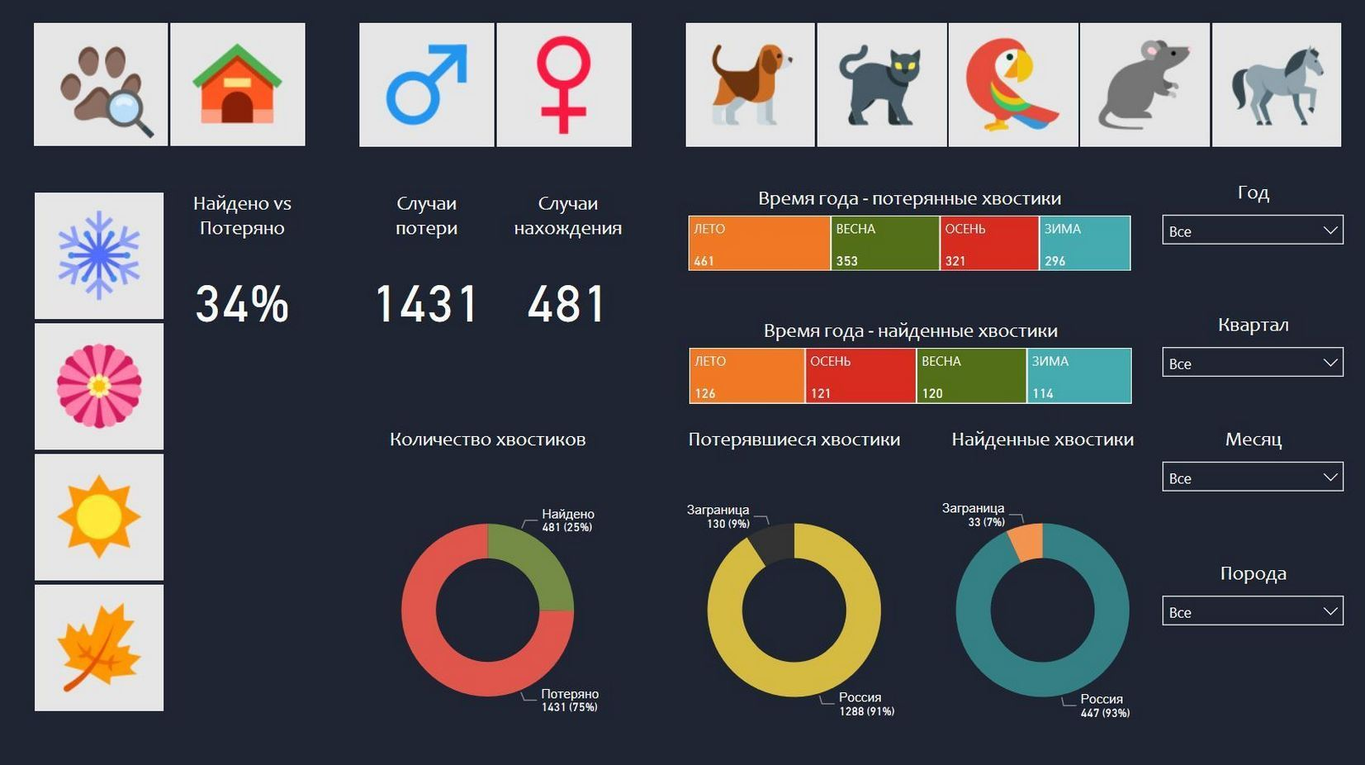
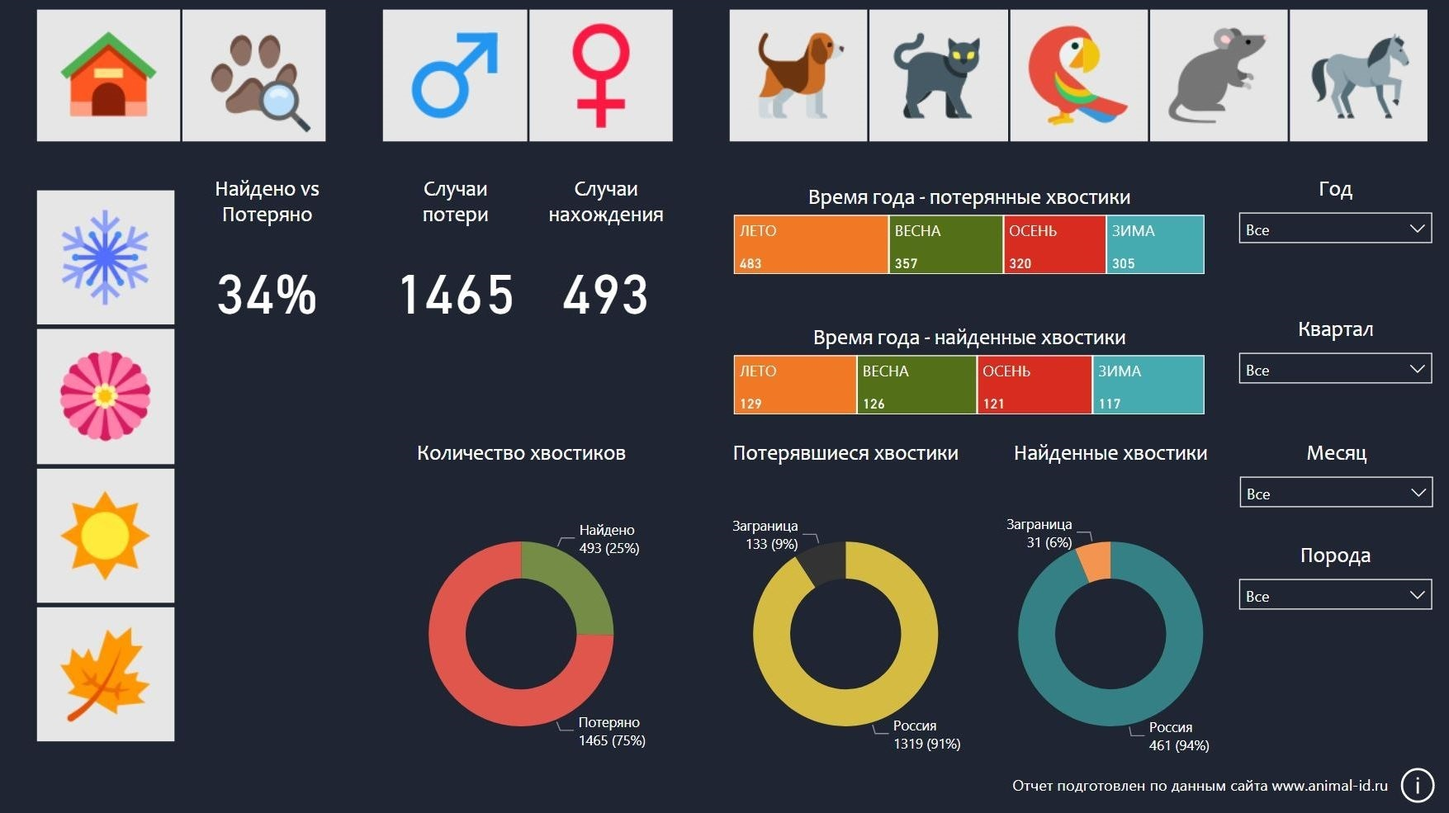
09.09.2020_1

diff --git a/docs/ru/blog/dev_000/index.html b/docs/ru/blog/dev_000/index.html
@@ -149,9 +149,10 @@
                 <blockquote>
 <p><em>Рвав-рвав, с вами социально-ответственный собака Смайл!</em></p>
 
-<p><em>В связи с прошедшим Днем рождения, а также в рамках постоянной работы над собой, мы рады представить вам свою очередную разработку &ndash; отчет c кодовым названием &ldquo;Мониторинг питомцев&rdquo;. Отчет построен по данным российской базы чипированных животных, данные, используемые в отчете &ndash; общего характера.</em>
-<em>Собака Смайл выражает благодарность коллеге хозяина &ndash; <a href="https://dmitriyvlasov.ru">Дмитрию Власову</a> за помощь в создании процедуры парсинга исходных данных.</em>
-<em>Описание разработки, за исключением процедуры парсинга, &ndash; представлено ниже.</em></p>
+<p><em>В связи с прошедшим Днем рождения, а также в рамках постоянной работы над собой, мы рады представить вам свою очередную разработку &ndash; отчет c кодовым названием &ldquo;Мониторинг питомцев&rdquo;.</em>
+<em>Отчет построен по данным российской базы чипированных животных, а данные, представленные в отчете &ndash; общего характера.</em>
+<em>Собака Смайл выражает благодарность коллеге хозяина <a href="https://dmitriyvlasov.ru">Дмитрию Власову</a> за помощь в создании процедуры парсинга исходных данных.</em>
+<em>Описание разработки, за исключением процедуры парсинга, представлено ниже.</em></p>
 </blockquote>
 
 <p><img src="https://kkadikin.ru/images/blog/dev_000_screen.jpg" alt="dev_000_screen" /></p>
@@ -160,7 +161,7 @@
 
 <p><strong><li></strong> Источником данных для отчета является &ldquo;Web&rdquo; (&ldquo;Интернет&rdquo;), то есть web-станицы, соединенные в определенной последовательности, и представленные при помощи функций на уровне Power Query в табличном виде.</p>
 
-<p><strong><li></strong> Географические данные, используемые в отчете, представляют собой &ldquo;очищенные&rdquo; позиции, то есть эти данные отличаются от оригинала. Очистка данных производилась большей частью вручную (на уровне DAX), поскольку у человеков просто неисчерпаемая фантазия.</p>
+<p><strong><li></strong> Географические данные, используемые в отчете, представляют собой &ldquo;очищенные&rdquo; позиции, то есть эти данные отличаются от оригинала. Очистка данных производилась большей частью вручную, на уровне DAX, поскольку у человеков просто неисчерпаемая фантазия.</p>
 
 <blockquote>
 <p><em>Рвав-рвав, отступление из серии &ldquo;Накипело&rdquo;. Собака Смайл узнал очень много в процессе обработки данных, оказывается, столица нашего государства может писаться следующим образом:</em></p>
@@ -170,21 +171,25 @@
 
 <p>&ndash; <em>&ldquo;ГРАД МОСКОВСКИЙ&rdquo; &ndash; куда уж нам без пафоса, так и хочется сказать: &ldquo;Человек, у тебя, вообще-то, друг потерялся&hellip;&rdquo;;</em></p>
 
-<p>&ndash; <em>&ldquo;ТВЕРСКАЯ УЛИЦА&rdquo; &ndash; таки-да, товарищи, это тоже &ldquo;МОСКВА&rdquo; (Смайл понял из контекста), но мы же с вами и так все в курсе, где это&hellip; И ничего, что такая же, как минимум, в Петербурге есть (рядом с Таврическим садом, если что).</em></p>
+<p>&ndash; <em>&ldquo;ТВЕРСКАЯ УЛИЦА&rdquo; &ndash; таки-да, товарищи, это тоже &ldquo;МОСКВА&rdquo; (Смайл понял из контекста), но мы же с вами и так все в курсе, где это&hellip; И ничего, что такая же улица, как минимум, в Петербурге есть (рядом с Таврическим садом, если что).</em></p>
 
 <p><strong><li></strong> Все показатели расчитаны при помощи мер.</p>
 
-<p><strong>Разработка содержит следующие данные:</strong></p>
+<p><strong>Разработка содержит 2 листа:</strong></p>
 
-<p><strong><li></strong> Общую информацию о потерянных и найденных питомцах.</p>
+<p><strong><li></strong> Лист &ldquo;Общие данные&rdquo; &ndash; общая информация о потерянных и найденных питомцах по России и странам мира.</p>
 
-<p><strong><li></strong> Географию произошедшего &ndash; по России и за границей.</p>
+<p><strong><li></strong> Лист &ldquo;ГЕО - Мир&rdquo; &ndash; детальная информация по странам мира, за исключением России, с выделением ТОП-5 в рейтинге.</p>
 
-<p><strong><li></strong> Аналитику по частоте случаев в разрезе популярных пород, а также индивидуальные идентификаторы питомцев.</p>
+<p><strong><li></strong> Лист &ldquo;ГЕО - регионы России&rdquo; &ndash; детальная информация по регионам России, с выделением ТОП-5 в рейтинге.</p>
+
+<p><strong><li></strong> Лист &ldquo;Породы&rdquo; &ndash; детальная информация по конкретным породам питомцев, с выделением ТОП-5 в рейтинге.</p>
+
+<p><strong><li></strong> Лист &ldquo;Подробности&rdquo; &ndash; персонифицированная информация о конкретном питомце, с указанием номера чипа / клейма для облегчения его идентификации.</p>
 
 <p><strong>Используемые элементы:</strong></p>
 
-<p><strong><li></strong> Визуальные фильтры (стандартный функционал), а также боковая панель фильтрации;</p>
+<p><strong><li></strong> Визуальные фильтры, реализованные при помощи элемента визуализации &ldquo;Slicer&rdquo; (&ldquo;Срез&rdquo;), а также боковой панели фильтрации.</p>
 
 <p><strong><li></strong> В качестве элементов визуализации используются: &ldquo;Card&rdquo; (&ldquo;Карточка&rdquo;), &ldquo;Treemap&rdquo; (&ldquo;Диаграмма дерева&rdquo;), &ldquo;Donut chart&rdquo; (&ldquo;Кольцевой график&rdquo;), &ldquo;Map&rdquo; (&ldquo;Карта&rdquo;), &ldquo;Multi-row card&rdquo; (&ldquo;Многострочная карточка&rdquo;), &ldquo;Ribbon chart&rdquo; (&ldquo;Диаграмма ленты&rdquo;).</p>
 
@@ -192,31 +197,37 @@
 
 <p><strong>Процесс разработки:</strong></p>
 
-<p><strong><li></strong> Получение данных из веб-источника, и их обработка &ndash; цитата <a href="https://dmitriyvlasov.ru">Дмитрия Власова:</a></p>
+<p><strong><li></strong> Получение данных из веб-источника, и их обработка.</p>
 
-<p><em>&rdquo;&hellip;Подготовка данных для отчета осуществляется с помощью Power Query. На входе получаем URL к узловой странице с потерянными или найденными животными. Узловые страницы ведут на по страничное представление списков потерянных или найденных животных в формате html. На каждой странице содержится одна или несколько таблиц с карточкой животного. С помощью преобразования Power Query и написанного ряда функцию Power Query данные загружаются в Модель. Ключеые функции: Web.Contents &ndash; для загрузки данных, List.Accumulate &ndash; для прохождения и обработки в &ldquo;цикле&rdquo; каждой страницы и поиска последней заполненной страницы.&rdquo;</em></p>
+<p>Цитата <a href="https://dmitriyvlasov.ru">разработчика</a></p>
 
-<p>Исходные данные собираются в 2-х таблицах &ndash; &ldquo;LostPets&rdquo; и &ldquo;FoundPets&rdquo;.</p>
+<p>*&ldquo;&hellip;Подготовка данных для отчета осуществляется с помощью Power Query. На входе получаем URL к узловой странице с потерянными или найденными животными. Узловые страницы ведут на по страничное представление списков потерянных или найденных животных в формате &ldquo;html&rdquo;. На каждой странице содержится одна или несколько таблиц с карточкой животного. С помощью преобразования Power Query и написанного ряда функций Power Query данные загружаются в модель.</p>
 
-<p><strong><li></strong> Создана таблица &ldquo;RussiaMap&rdquo; &ndash; справочник федеральных округов, субъектов и административных центров России.</p>
+<p><em>Ключеые функции:</em></p>
 
-<p><strong><li></strong> Создана таблица &ldquo;Season&rdquo; &ndash; справочник по временам года, также имеющий ссылку URL на соответствующую иконку.</p>
+<p>&ndash; Web.Contents &ndash; для загрузки данных, List.Accumulate &ndash; для прохождения и обработки в &ldquo;цикле&rdquo; каждой страницы и поиска последней заполненной страницы.&rdquo;*</p>
 
-<p><strong><li></strong> Создана таблица &ldquo;Condition&rdquo; &ndash; справочник по состоянию питомца, также имеющий ссылку URL на соответствующую иконку.</p>
+<p>Исходные данные собираются в 2-х таблицах &ndash; &ldquo;Потерянные питомцы&rdquo; и &ldquo;Найденные питомцы&rdquo;.</p>
 
-<p><strong><li></strong> Создана таблица &ldquo;Measure&rdquo; &ndash; техническая таблица, созданная для удобства, складываем туда меры (по старинке), хоть теперь можно их группировать при  помощи каталогов.</p>
+<p><strong><li></strong> Создана таблица &ldquo;Субъекты России&rdquo; &ndash; справочник федеральных округов, субъектов и административных центров России.</p>
 
-<p><strong><li></strong> Создана таблица &ldquo;Kind&rdquo; &ndash; справочник по градации питомцев, также имеющий ссылку URL на соответствующую иконку.</p>
+<p><strong><li></strong> Создана таблица &ldquo;Время года&rdquo; &ndash; справочник по временам года, имеющий ссылку URL на соответствующую иконку.</p>
 
-<p><strong><li></strong> Создана таблица &ldquo;Gender&rdquo; &ndash; справочник, содержащий пол питомца, также имеющий ссылку URL на соответствующую иконку.</p>
+<p><strong><li></strong> Создана таблица &ldquo;Статус питомца&rdquo; &ndash; справочник по состоянию питомца, имеющий ссылку URL на соответствующую иконку.</p>
+
+<p><strong><li></strong> Создана таблица &ldquo;Меры&rdquo; &ndash; техническая таблица, созданная для удобства, складываем туда меры (по старинке), хоть теперь можно их группировать при помощи каталогов.</p>
+
+<p><strong><li></strong> Создана таблица &ldquo;Вид питомца&rdquo; &ndash; справочник по градации питомцев, имеющий ссылку URL на соответствующую иконку.</p>
+
+<p><strong><li></strong> Создана таблица &ldquo;Пол питомца&rdquo; &ndash; справочник, содержащий пол питомца, также имеющий ссылку URL на соответствующую иконку.</p>
 
 <p>На этом работы с Power Query завершены.</p>
 
-<p><strong><li></strong> Создана таблица &ldquo;Calendar&rdquo; &ndash; базовая таблица, определяющая набор дат для расчета.</p>
+<p><strong><li></strong> Создана таблица &ldquo;Календарь&rdquo; &ndash; базовая таблица, определяющая набор дат для расчета, включая сезоны.</p>
 
-<p><strong><li></strong> Создана таблица &ldquo;ClearLacation&rdquo; &ndash; справочник, содержащий очищенные географические данные, о которых упоминалось выше.</p>
+<p><strong><li></strong> Создана таблица &ldquo;Объявления&rdquo; &ndash; таблица, содержащая консолидированные данные по питомцам, с текущей меткой их статуса.</p>
 
-<p><strong><li></strong> Создана таблица &ldquo;PivotPets&rdquo; &ndash; таблица, содержащая консолидированнные данные по питомцам, с текущей меткой их состояния.</p>
+<p><strong><li></strong> Создана таблица &ldquo;Геопозиция&rdquo; &ndash; справочник, содержащий очищенные географические данные, о которых упоминалось выше.</p>
 
 <p><strong><li></strong> Следующим этапом является простановка связей в получившейся модели данных. Схема связей представлена ниже:</p>
 
@@ -228,7 +239,7 @@
 
 <p><strong>Особенности разработки:</strong></p>
 
-<p><strong><li></strong> В связи с разнообразием в вариациях обозначения географических данных, периодически необходимо дополнять справочник вручную, собака Смайл будет этим по возможности заниматься, как и собственно, обновление отчета.</p>
+<p><strong><li></strong> В связи с разнообразием в вариациях обозначения географических данных, периодически необходимо дополнять справочник вручную, собака Смайл будет этим по возможности заниматься, как и, собственно, обновлением отчета.</p>
 
 <p><strong><li></strong> Для размещения иконок непосредственно в элементе &ldquo;Slicer&rdquo; (&ldquo;Срез&rdquo;), изображения должны быть доступны по URL. В данном случае, они размещены в структуре сайта.</p>
 
@@ -237,6 +248,14 @@
 
 <p><em>Ваш Смайл</em></p>
 </blockquote>
+
+<p><strong>Разработка была обновлена 9 сентября 2020 года:</strong></p>
+
+<p><strong><li></strong> Обновлена структура отчета.</p>
+
+<p><strong><li></strong> Обновлен дизайн отчета.</p>
+
+<p><strong><li></strong> Произведена актуализация данных отчета.</p>
 
 <p><strong>ДЛЯ ЛЮБИТЕЛЕЙ ПОНАЖИМАТЬ НА КНОПОЧКИ</strong></p>
 

diff --git a/docs/ru/blog/page/2/index.html b/docs/ru/blog/page/2/index.html
@@ -177,7 +177,7 @@
                     </div>
                     <div class="post-content">
                         <p>Рвав-рвав, с вами социально-ответственный собака Смайл!
-В связи с прошедшим Днем рождения, а также в рамках постоянной работы над собой, мы рады представить вам свою очередную разработку &ndash; отчет c кодовым названием &ldquo;Мониторинг питомцев&rdquo;. Отчет построен по данным российской базы чипированных животных, данные, используемые в отчете &ndash; общего характера. Собака Смайл выражает благодарность коллеге хозяина &ndash; Дмитрию Власову за помощь в создании процедуры парсинга исходных данных. Описание разработки, за исключением процедуры парсинга, &ndash; представлено ниже.</p>
+В связи с прошедшим Днем рождения, а также в рамках постоянной работы над собой, мы рады представить вам свою очередную разработку &ndash; отчет c кодовым названием &ldquo;Мониторинг питомцев&rdquo;. Отчет построен по данным российской базы чипированных животных, а данные, представленные в отчете &ndash; общего характера. Собака Смайл выражает благодарность коллеге хозяина Дмитрию Власову за помощь в создании процедуры парсинга исходных данных. Описание разработки, за исключением процедуры парсинга, представлено ниже.</p>
                     </div>
                     <a class="btn btn-main" href="https://kkadikin.ru/ru/blog/dev_000/">Read more</a>
                 </div>

diff --git a/content/blog/Dev_000.ru.md b/content/blog/Dev_000.ru.md
@@ -7,9 +7,10 @@ author: Smile
 
 > *Рвав-рвав, с вами социально-ответственный собака Смайл!*
 >
-> *В связи с прошедшим Днем рождения, а также в рамках постоянной работы над собой, мы рады представить вам свою очередную разработку -- отчет c кодовым названием "Мониторинг питомцев". Отчет построен по данным российской базы чипированных животных, данные, используемые в отчете -- общего характера.*
-> *Собака Смайл выражает благодарность коллеге хозяина -- [Дмитрию Власову](https://dmitriyvlasov.ru) за помощь в создании процедуры парсинга исходных данных.*
-> *Описание разработки, за исключением процедуры парсинга, -- представлено ниже.* 
+> *В связи с прошедшим Днем рождения, а также в рамках постоянной работы над собой, мы рады представить вам свою очередную разработку -- отчет c кодовым названием "Мониторинг питомцев".*
+> *Отчет построен по данным российской базы чипированных животных, а данные, представленные в отчете -- общего характера.*
+> *Собака Смайл выражает благодарность коллеге хозяина [Дмитрию Власову](https://dmitriyvlasov.ru) за помощь в создании процедуры парсинга исходных данных.*
+> *Описание разработки, за исключением процедуры парсинга, представлено ниже.* 
 
 ![dev_000_screen](https://kkadikin.ru/images/blog/dev_000_screen.jpg)
 
@@ -18,7 +19,7 @@ author: Smile
 
 **<li>** Источником данных для отчета является "Web" ("Интернет"), то есть web-станицы, соединенные в определенной последовательности, и представленные при помощи функций на уровне Power Query в табличном виде.
 
-**<li>** Географические данные, используемые в отчете, представляют собой "очищенные" позиции, то есть эти данные отличаются от оригинала. Очистка данных производилась большей частью вручную (на уровне DAX), поскольку у человеков просто неисчерпаемая фантазия.
+**<li>** Географические данные, используемые в отчете, представляют собой "очищенные" позиции, то есть эти данные отличаются от оригинала. Очистка данных производилась большей частью вручную, на уровне DAX, поскольку у человеков просто неисчерпаемая фантазия.
 
 > *Рвав-рвав, отступление из серии "Накипело". Собака Смайл узнал очень много в процессе обработки данных, оказывается, столица нашего государства может писаться следующим образом:*
 
@@ -26,23 +27,27 @@ author: Smile
 
 -- *"ГРАД МОСКОВСКИЙ" -- куда уж нам без пафоса, так и хочется сказать: "Человек, у тебя, вообще-то, друг потерялся...";*
 
--- *"ТВЕРСКАЯ УЛИЦА" -- таки-да, товарищи, это тоже "МОСКВА" (Смайл понял из контекста), но мы же с вами и так все в курсе, где это... И ничего, что такая же, как минимум, в Петербурге есть (рядом с Таврическим садом, если что).*
+-- *"ТВЕРСКАЯ УЛИЦА" -- таки-да, товарищи, это тоже "МОСКВА" (Смайл понял из контекста), но мы же с вами и так все в курсе, где это... И ничего, что такая же улица, как минимум, в Петербурге есть (рядом с Таврическим садом, если что).*
 
 **<li>** Все показатели расчитаны при помощи мер. 
 
 
-**Разработка содержит следующие данные:**
+**Разработка содержит 2 листа:**
 
-**<li>** Общую информацию о потерянных и найденных питомцах.
+**<li>** Лист "Общие данные" -- общая информация о потерянных и найденных питомцах по России и странам мира.
 
-**<li>** Географию произошедшего -- по России и за границей.
+**<li>** Лист "ГЕО - Мир" -- детальная информация по странам мира, за исключением России, с выделением ТОП-5 в рейтинге.
 
-**<li>** Аналитику по частоте случаев в разрезе популярных пород, а также индивидуальные идентификаторы питомцев.
+**<li>** Лист "ГЕО - регионы России" -- детальная информация по регионам России, с выделением ТОП-5 в рейтинге.
+
+**<li>** Лист "Породы" -- детальная информация по конкретным породам питомцев, с выделением ТОП-5 в рейтинге.
+
+**<li>** Лист "Подробности" -- персонифицированная информация о конкретном питомце, с указанием номера чипа / клейма для облегчения его идентификации.
 
 
 **Используемые элементы:**
 
-**<li>** Визуальные фильтры (стандартный функционал), а также боковая панель фильтрации;
+**<li>** Визуальные фильтры, реализованные при помощи элемента визуализации "Slicer" ("Срез"), а также боковой панели фильтрации.
 
 **<li>** В качестве элементов визуализации используются: "Card" ("Карточка"), "Treemap" ("Диаграмма дерева"), "Donut chart" ("Кольцевой график"), "Map" ("Карта"), "Multi-row card" ("Многострочная карточка"), "Ribbon chart" ("Диаграмма ленты").
 
@@ -51,31 +56,37 @@ author: Smile
 
 **Процесс разработки:**
 
-**<li>** Получение данных из веб-источника, и их обработка -- цитата [Дмитрия Власова:](https://dmitriyvlasov.ru)
+**<li>** Получение данных из веб-источника, и их обработка.
 
-*"...Подготовка данных для отчета осуществляется с помощью Power Query. На входе получаем URL к узловой странице с потерянными или найденными животными. Узловые страницы ведут на по страничное представление списков потерянных или найденных животных в формате html. На каждой странице содержится одна или несколько таблиц с карточкой животного. С помощью преобразования Power Query и написанного ряда функцию Power Query данные загружаются в Модель. Ключеые функции: Web.Contents -- для загрузки данных, List.Accumulate -- для прохождения и обработки в "цикле" каждой страницы и поиска последней заполненной страницы."*
+Цитата [разработчика](https://dmitriyvlasov.ru)
 
-Исходные данные собираются в 2-х таблицах -- "LostPets" и "FoundPets".
+*"...Подготовка данных для отчета осуществляется с помощью Power Query. На входе получаем URL к узловой странице с потерянными или найденными животными. Узловые страницы ведут на по страничное представление списков потерянных или найденных животных в формате "html". На каждой странице содержится одна или несколько таблиц с карточкой животного. С помощью преобразования Power Query и написанного ряда функций Power Query данные загружаются в модель. 
 
-**<li>** Создана таблица "RussiaMap" -- справочник федеральных округов, субъектов и административных центров России.
+*Ключеые функции:*
 
-**<li>** Создана таблица "Season" -- справочник по временам года, также имеющий ссылку URL на соответствующую иконку.
+-- Web.Contents -- для загрузки данных, List.Accumulate -- для прохождения и обработки в "цикле" каждой страницы и поиска последней заполненной страницы."*
 
-**<li>** Создана таблица "Condition" -- справочник по состоянию питомца, также имеющий ссылку URL на соответствующую иконку.
+Исходные данные собираются в 2-х таблицах -- "Потерянные питомцы" и "Найденные питомцы".
 
-**<li>** Создана таблица "Measure" -- техническая таблица, созданная для удобства, складываем туда меры (по старинке), хоть теперь можно их группировать при  помощи каталогов.
+**<li>** Создана таблица "Субъекты России" -- справочник федеральных округов, субъектов и административных центров России.
 
-**<li>** Создана таблица "Kind" -- справочник по градации питомцев, также имеющий ссылку URL на соответствующую иконку.
+**<li>** Создана таблица "Время года" -- справочник по временам года, имеющий ссылку URL на соответствующую иконку.
 
-**<li>** Создана таблица "Gender" -- справочник, содержащий пол питомца, также имеющий ссылку URL на соответствующую иконку.
+**<li>** Создана таблица "Статус питомца" -- справочник по состоянию питомца, имеющий ссылку URL на соответствующую иконку.
+
+**<li>** Создана таблица "Меры" -- техническая таблица, созданная для удобства, складываем туда меры (по старинке), хоть теперь можно их группировать при помощи каталогов.
+
+**<li>** Создана таблица "Вид питомца" -- справочник по градации питомцев, имеющий ссылку URL на соответствующую иконку.
+
+**<li>** Создана таблица "Пол питомца" -- справочник, содержащий пол питомца, также имеющий ссылку URL на соответствующую иконку.
 
 На этом работы с Power Query завершены. 
 
-**<li>** Создана таблица "Calendar" -- базовая таблица, определяющая набор дат для расчета.
+**<li>** Создана таблица "Календарь" -- базовая таблица, определяющая набор дат для расчета, включая сезоны.
 
-**<li>** Создана таблица "ClearLacation" -- справочник, содержащий очищенные географические данные, о которых упоминалось выше.
+**<li>** Создана таблица "Объявления" -- таблица, содержащая консолидированные данные по питомцам, с текущей меткой их статуса.
 
-**<li>** Создана таблица "PivotPets" -- таблица, содержащая консолидированнные данные по питомцам, с текущей меткой их состояния.
+**<li>** Создана таблица "Геопозиция" -- справочник, содержащий очищенные географические данные, о которых упоминалось выше.
 
 **<li>** Следующим этапом является простановка связей в получившейся модели данных. Схема связей представлена ниже:
 
@@ -88,13 +99,22 @@ author: Smile
 
 **Особенности разработки:**
 
-**<li>** В связи с разнообразием в вариациях обозначения географических данных, периодически необходимо дополнять справочник вручную, собака Смайл будет этим по возможности заниматься, как и собственно, обновление отчета.
+**<li>** В связи с разнообразием в вариациях обозначения географических данных, периодически необходимо дополнять справочник вручную, собака Смайл будет этим по возможности заниматься, как и, собственно, обновлением отчета.
 
 **<li>** Для размещения иконок непосредственно в элементе "Slicer" ("Срез"), изображения должны быть доступны по URL. В данном случае, они размещены в структуре сайта. 
 
 > *С первым снегом всех!*
 >
 > *Ваш Смайл*
+
+
+**Разработка была обновлена 9 сентября 2020 года:**
+
+**<li>** Обновлена структура отчета.
+
+**<li>** Обновлен дизайн отчета.
+
+**<li>** Произведена актуализация данных отчета.
 
 **ДЛЯ ЛЮБИТЕЛЕЙ ПОНАЖИМАТЬ НА КНОПОЧКИ**
 

diff --git a/content/blog/Dev_001.ru.md b/content/blog/Dev_001.ru.md
@@ -13,6 +13,7 @@ author: Smile
 
 ![dev_001_screen](https://kkadikin.ru/images/blog/dev_001_screen.jpg)
 
+
 **Календарь реализован при помощи DAX и Power Query, он содержит следующие расчеты:**
 
 **<li>** Общее количество календарных дней.
@@ -31,6 +32,7 @@ author: Smile
 **<li>** Лист "Отчет" –- собственно, сам отчет, содержащий сводные показатели производственного календаря;
 
 **<li>** Лист "Информация" -- памятка пользователя.
+
 
 **Используемые элементы:**
 
